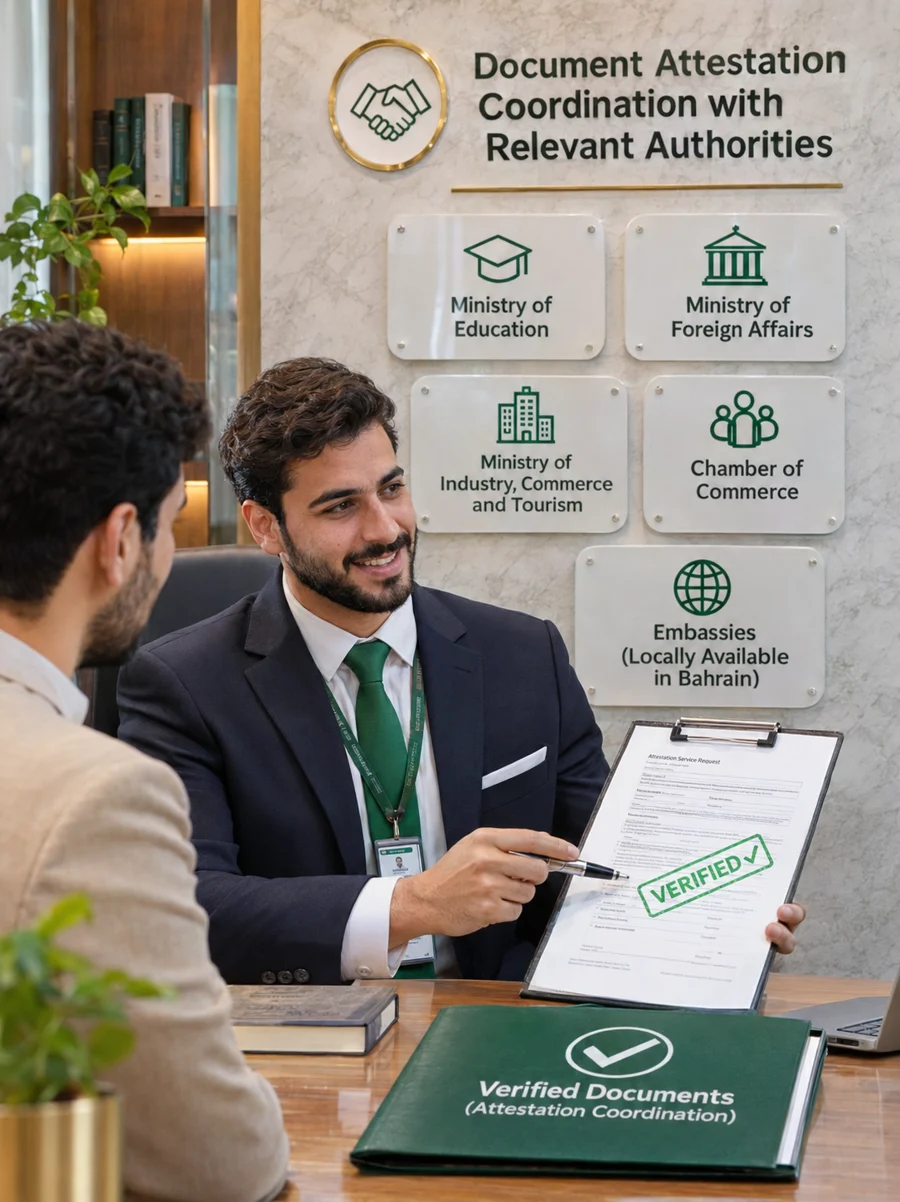
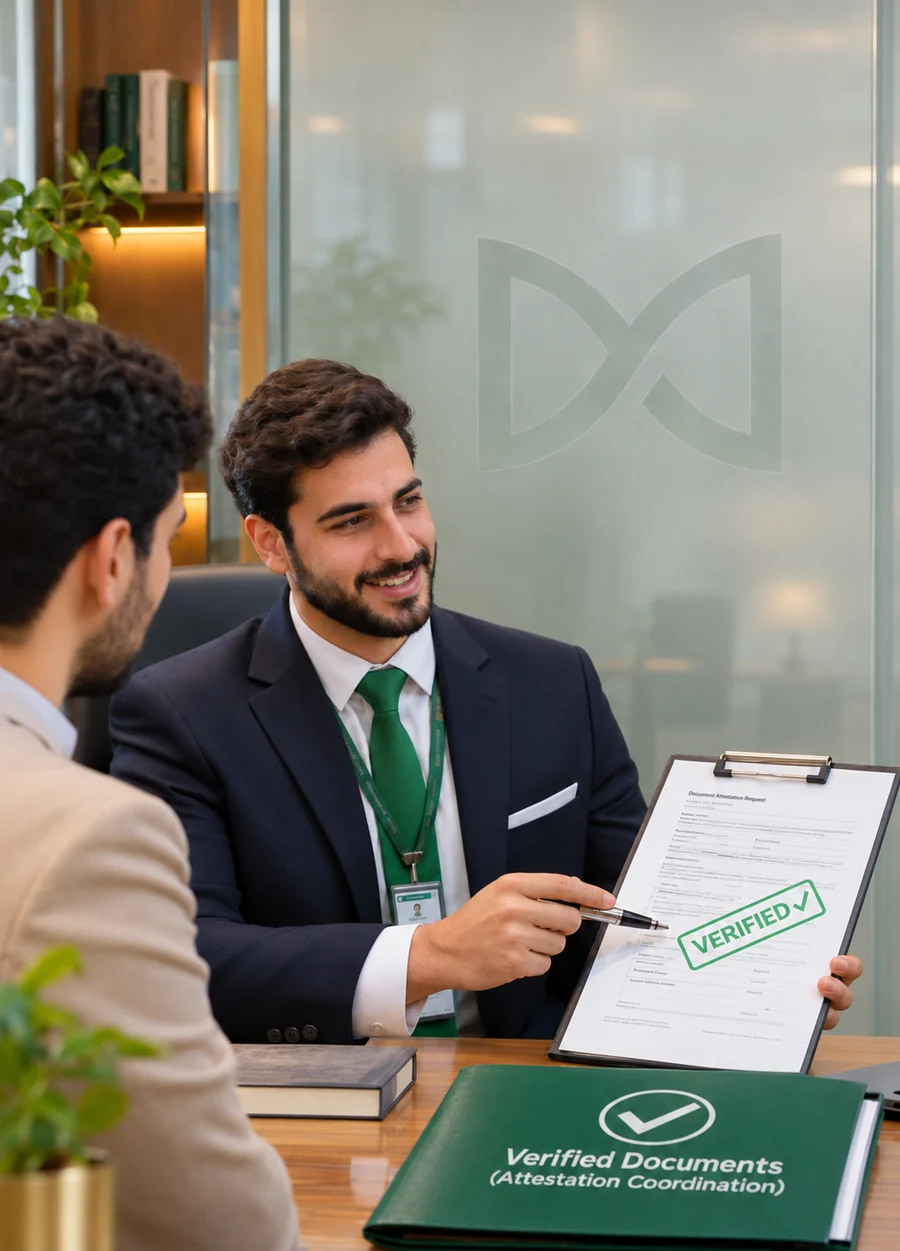
Attestation verification card: emblem office photo
Claude-Session: https://claude.ai/code/session_01Q8SfPFzKec2UT1Fop63zbA

diff --git a/document-attestation.html b/document-attestation.html
@@ -7756,7 +7756,7 @@ main .lmx-g .lmx-img img, main .mlx-card .mlx-img img { -webkit-mask-image:linea
           <article class="dpx-step" role="listitem" style="--i:2"><div class="dpx-head"><span class="dpx-num" aria-hidden="true">03</span><i class="dpx-ic" aria-hidden="true"><svg viewBox="0 0 24 24" aria-hidden="true"><path d="M4 12h12"/><path d="m12 6 6 6-6 6"/><circle cx="4" cy="12" r="1.5"/></svg></i></div><span class="dpx-k">Process</span><h3>End-to-end attestation process</h3><p>We manage the entire attestation process, providing a smooth and hassle-free experience.</p></article>
         </div>
         <div class="dac dac2-wide">
-          <div class="dac-art"><img class="dac-photo" src="assets/da-verify-office.webp" alt="DMS consultant showing a verified attestation request" width="900" height="1202" loading="lazy" decoding="async"></div>
+          <div class="dac-art"><img class="dac-photo" src="assets/da-verify-office.webp?v=2" alt="DMS consultant showing a verified attestation request" width="900" height="1251" loading="lazy" decoding="async"></div>
           <div class="dac-copy">
             <span class="dac-k">Verification</span>
             <h3>Verification by relevant authorities</h3>
